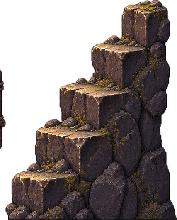
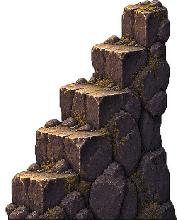
The old steps no longer carry a strip of the old crossing's post
The steps' crop box starts inside the crossing's far post on the ruin sheet,
so a 4 px bar stood beside the steps. Painted, it passed for a dark stick; once
the ash took the steps it was a stark white bar in the air, which is how it
was found.

The strip is cleared after the crop's bounds are taken, so the sprite keeps the
177x220 canvas the scene places it by. Only the 447 pixels of the post and its
haze change; every pixel of the steps stays where it was, and the crossing's
own box still has its whole post.

Changed region(s): [[0.0, 0.3, 0.0565, 0.6818]]

diff --git a/tools/build_mayon_landscape.py b/tools/build_mayon_landscape.py
@@ -32,9 +32,16 @@ def main():
         edge=edge.resize((128,round(edge.height*128/edge.width)),Image.Resampling.NEAREST)
         pictures.put(edge,OUT/'terrain'/f'edge_{name}.png')
     props=Image.open(SRC/'ruin_props.png').convert('RGBA')
+    # ⚠ The old steps' box starts inside the old crossing's far post, and a strip of it came along:
+    # a bar beside the steps, dark when painted, stark white once the ash took it. Clear it (box
+    # coordinates) only after the bounds are taken, so the cut keeps the canvas the scene places it
+    # by and every pixel of the steps stays put. The crossing's own box keeps its whole post.
+    not_this_prop={'old_steps':(0,190,24,430)}
     for name,box,longest in [('old_crossing',(0,170,780,460),330),('old_steps',(760,0,1240,590),220),('basalt_column',(0,580,600,1250),380),('broken_arch',(600,600,1260,1240),330)]:
         image=props.crop(box)
         bounds=image.getchannel('A').point(lambda v:255 if v>24 else 0).getbbox()
+        if name in not_this_prop:
+            image.paste((0,0,0,0),not_this_prop[name])
         image=image.crop(bounds)
         scale=longest/max(image.size)
         image=image.resize((round(image.width*scale),round(image.height*scale)),Image.Resampling.NEAREST)
